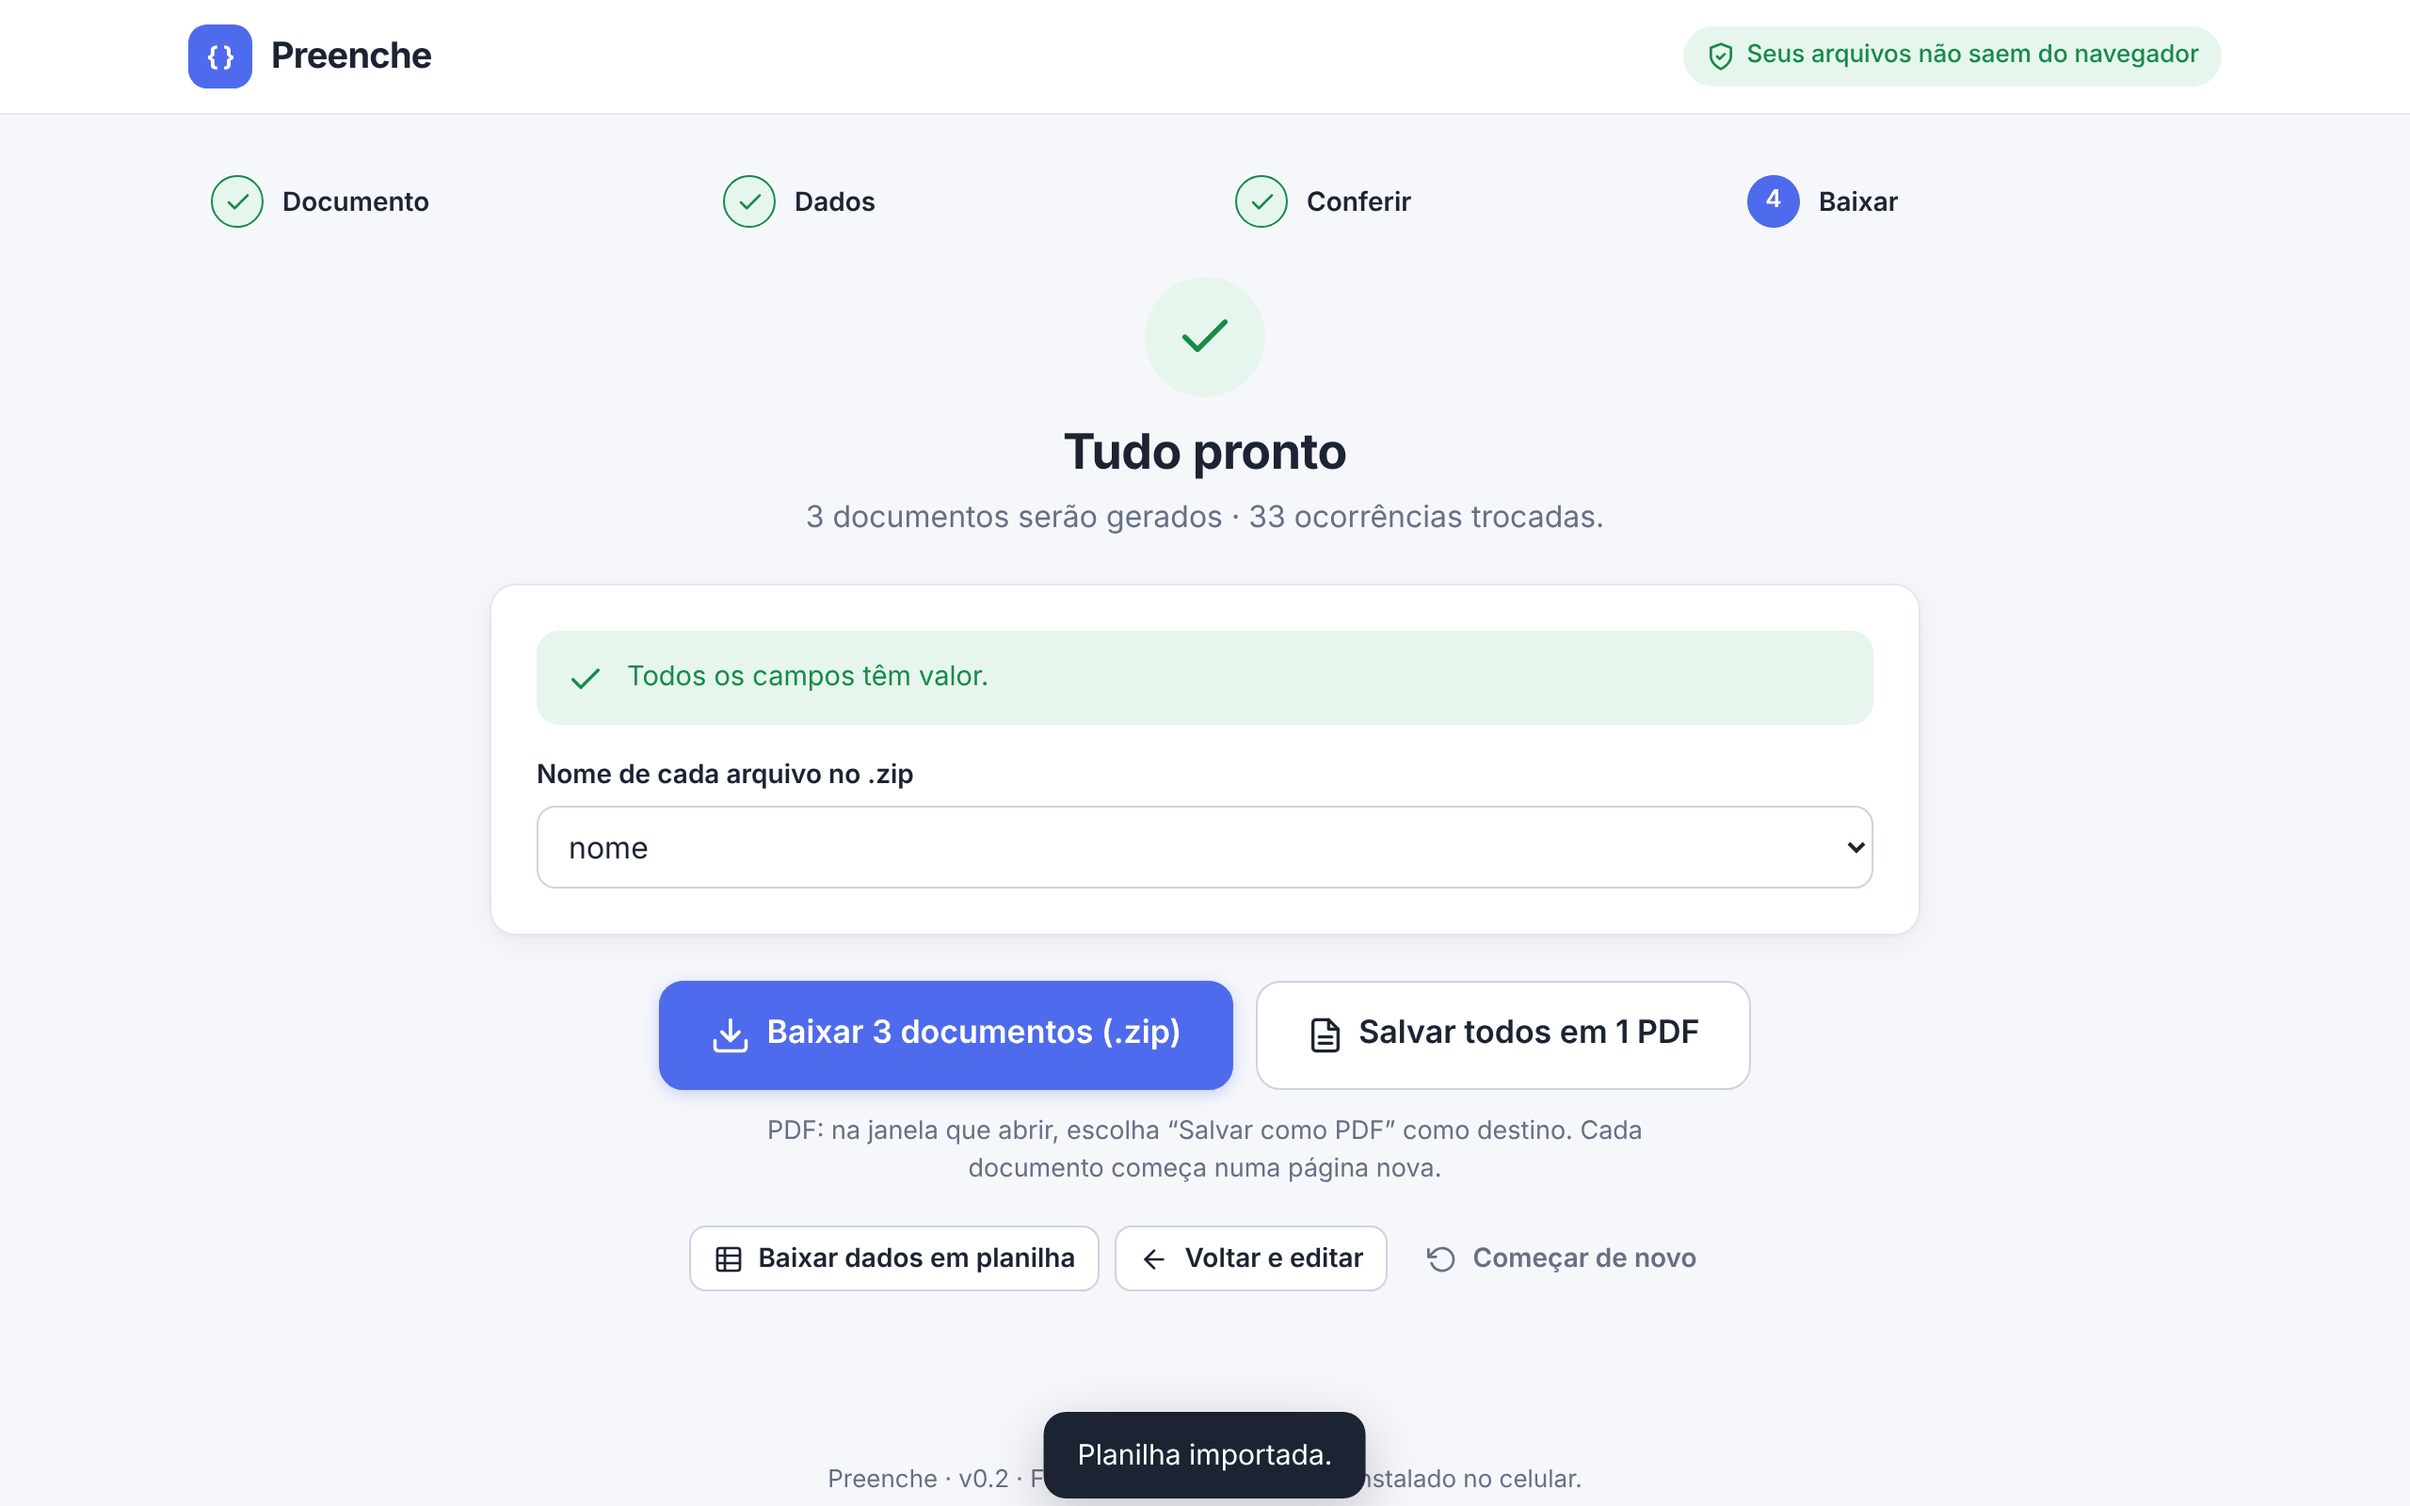
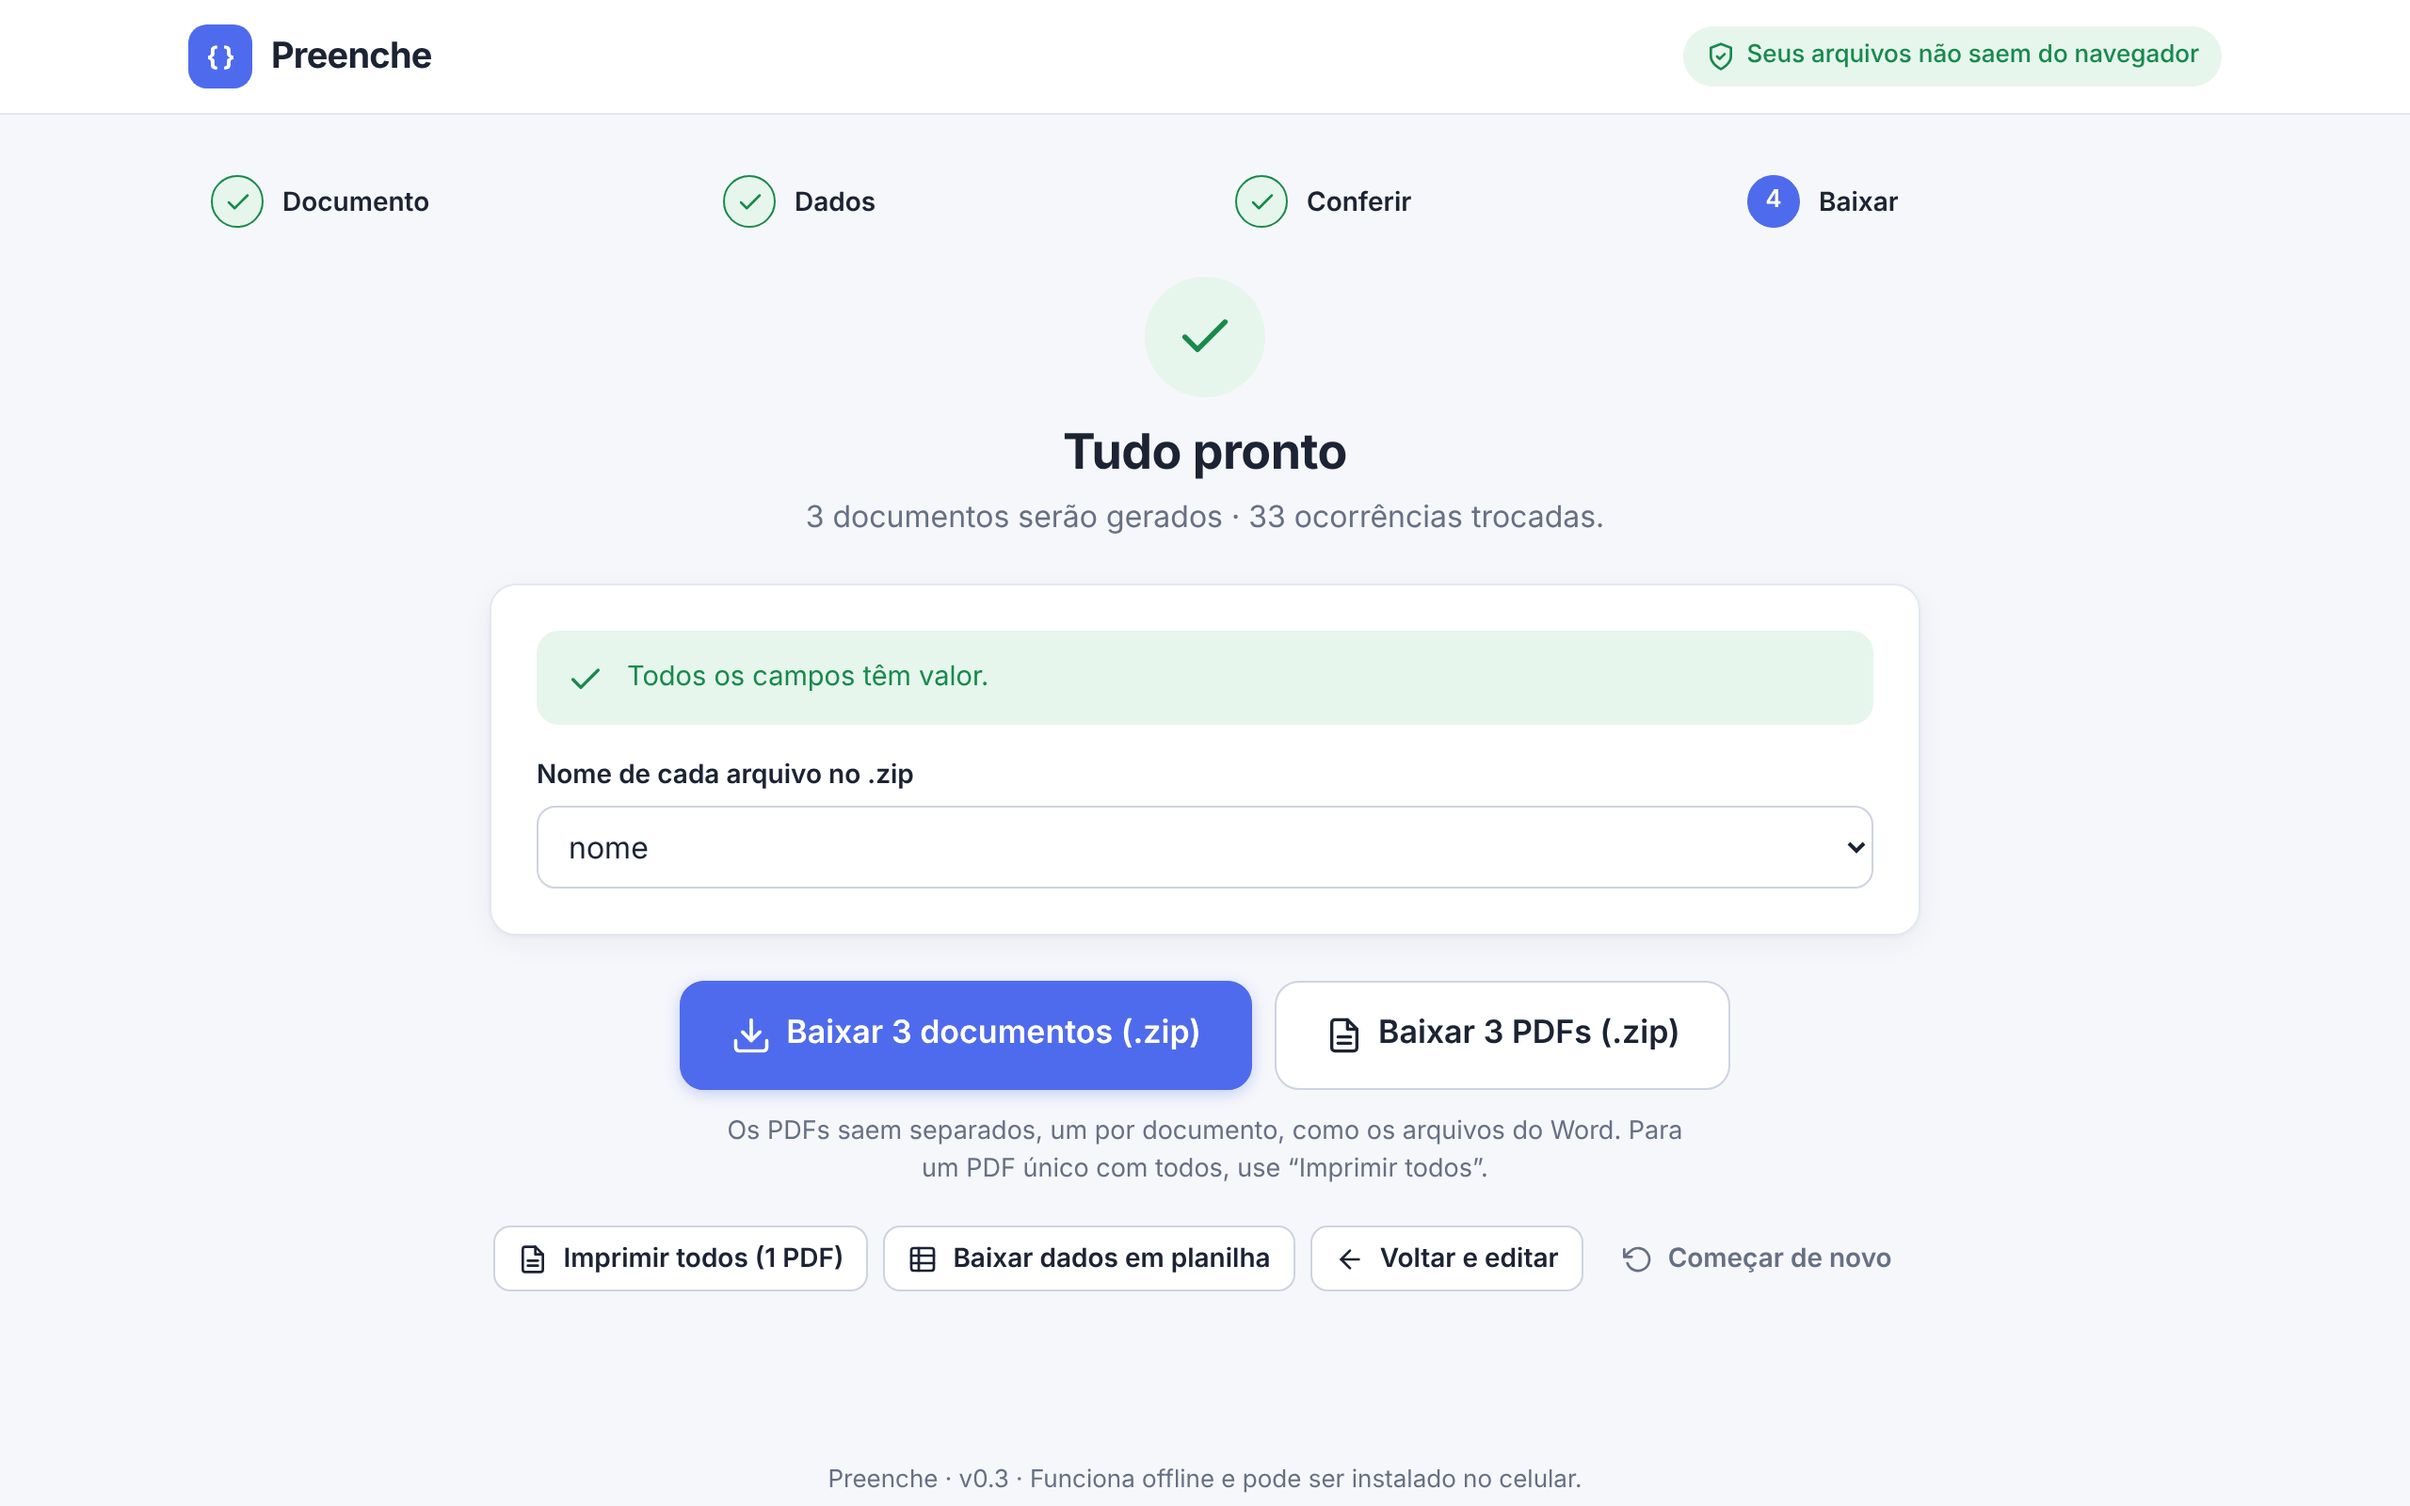
docs: roadmap v0.3, README e prints atualizados
Claude-Session: https://claude.ai/code/session_016NX9FBjog8LXpXJKwTe1G8

diff --git a/docs/gerar_prints.py b/docs/gerar_prints.py
@@ -53,6 +53,7 @@ def to_review(page, rows):
 
 
 def shot(page, name, full=False, clip_h=None):
+    page.evaluate("() => { const t = document.getElementById('toast'); if (t) { t.style.transition = 'none'; t.className = 'toast'; } }")
     if clip_h:
         page.screenshot(path=str(OUT / name), clip={'x': 0, 'y': 0, 'width': page.viewport_size['width'], 'height': clip_h})
     else:
@@ -62,7 +63,7 @@ def shot(page, name, full=False, clip_h=None):
 
 def pdf_page_png(page, rows, out_png):
     page.evaluate('() => { window.print = () => { window.__printed = (window.__printed || 0) + 1; }; window.__printed = 0; }')
-    page.click('#btn-pdf')
+    page.click('#btn-print')
     page.wait_for_function('window.__printed > 0', timeout=20000)
     page.emulate_media(media='print')
     pdf = page.pdf(prefer_css_page_size=True, print_background=True)

diff --git a/ROADMAP.md b/ROADMAP.md
@@ -2,7 +2,7 @@
 
 > Documento vivo: atualizamos a cada etapa do desenvolvimento.
 > **Legenda:** ✅ feito · 🚧 em andamento · 📝 planejado · ❓ decisão em aberto
-> **Última atualização:** 03/11/2026 — v0.2 (PDF + app instalável/offline)
+> **Última atualização:** 03/11/2026 — v0.3 (PDFs separados + datas da planilha)
 
 ---
 
@@ -150,7 +150,23 @@ Comparativo das formas possíveis:
 - "Compartilhar" depende do celular aceitar o tipo de arquivo; quando não aceita, o app avisa e o "Baixar" continua disponível.
 - No iPhone, o PDF é salvo pela tela de impressão (gesto de "pinça" na prévia ou "Salvar em Arquivos"), conforme a versão do iOS.
 
-### v0.3 — Conforto
+### v0.3 — PDFs separados e planilhas mais robustas ✅
+- [x] **PDFs separados em .zip**, um por documento, como os arquivos do Word (botão "Baixar N PDFs (.zip)")
+- [x] **Baixar PDF direto** (sem janela de impressão), também para um documento só; mais prático no celular
+  - Cada página em alta resolução (~190 dpi) com camada de texto invisível: dá para pesquisar e copiar o texto
+  - Quebra de página sem cortar linhas, tabelas ou imagens; respeita as quebras de página do Word
+  - jsPDF 2.5.1 e html2canvas 1.4.1 (MIT), carregados só na primeira vez que são usados
+- [x] "Imprimir" continua disponível (PDF com texto vetorial; no lote, um PDF único com todos)
+- [x] **Datas da planilha**
+  - Zero da frente apagado pelo Excel: `010126` → `10126` volta a ser **01/01/2026** (e `1012026` → 01/01/2026)
+  - Células no formato Data do Excel lidas sem inverter dia e mês (antes, 01/02 podia virar 2 de janeiro)
+  - Número de série de data do Excel (ex.: `46023`) reconhecido como data
+- [x] **Números da planilha** lidos pelo valor da célula: `1.500,50` com formato do Excel não vira mais "1,500.50"
+- [x] **CSV** lido como texto puro: `010126` e `03/11/2026` chegam exatamente como digitados
+
+**Dica para planilhas:** a planilha-modelo do app já vem com as células em formato Texto, o que evita esses problemas na origem. Se usar outra planilha, formate as colunas como Texto antes de digitar.
+
+### v0.4 — Conforto
 - [ ] Formatação: valor por extenso ("mil e quinhentos reais"), validação de dígito do CPF/CNPJ
 - [ ] Valor vazio intencional ("apagar o campo")
 - [ ] Renomear campo na conferência (altera o marcador no documento)
@@ -158,7 +174,7 @@ Comparativo das formas possíveis:
 - [ ] Atalhos de teclado e melhorias de acessibilidade
 - [ ] Marcar campos diretamente na prévia (selecionar texto → "transformar em campo")
 
-### v0.4 — Documentos legados
+### v0.5 — Documentos legados
 - [ ] Modo "texto destacado": reconhecer trechos em vermelho/amarelo no Word e pedir o nome do campo
 - [ ] Sugestão automática de campos (padrões de CNPJ, CPF, e-mail, telefone no texto)
 - [ ] `.odt` e `.rtf`
@@ -166,7 +182,8 @@ Comparativo das formas possíveis:
 ### v1.0 — Polimento
 - [ ] Salvar "perfis" de dados no navegador (opt-in, com aviso de privacidade)
 - [ ] Idiomas (EN/ES)
-- [ ] PDF com cabeçalho/rodapé repetidos em cada página e PDFs separados por documento (dentro do .zip)
+- [ ] PDF com cabeçalho/rodapé repetidos em cada página
+- [ ] Compartilhar como PDF no celular (hoje compartilha no formato original)
 - [ ] Receber arquivos pelo menu "Compartilhar" do celular (ex.: modelo vindo do WhatsApp direto para o app)
 - [ ] Abrir `.docx` com duplo clique no computador quando o app estiver instalado
 - [ ] Modo escuro opcional
@@ -201,7 +218,7 @@ preenche/
 │   ├── sheet.js        # planilha-modelo e importação
 │   ├── pdf.js          # salvar em PDF (impressão)
 │   └── app.js          # telas e fluxo
-├── vendor/             # JSZip, SheetJS, docx-preview, marked (sem CDN)
+├── vendor/             # JSZip, SheetJS, docx-preview, marked, jsPDF, html2canvas (sem CDN)
 ├── icons/              # ícones do app instalável
 ├── manifest.webmanifest # dados do app instalável (PWA)
 ├── sw.js               # funcionamento offline
@@ -226,3 +243,4 @@ Passo a passo no `README.md`. Resumo: subir a pasta para um repositório → *Se
 | 03/11/2026 | v0.1.1: logo volta ao início com confirmação; formatação automática por campo (8 tipos). 48 verificações automatizadas passando. |
 | 03/11/2026 | v0.2: salvar em PDF (1 documento ou lote num PDF só); PWA instalável e offline; compartilhar no celular. 65 verificações automatizadas passando (incl. PDF gerado e lido de volta, e uso offline via servidor http). |
 | 03/11/2026 | Projeto publicado no GitHub com CI de testes. README em formato de apresentação, com prints do app (desktop, celular, antes e depois) gerados por `docs/gerar_prints.py`. |
+| 03/11/2026 | v0.3: PDFs separados em .zip e PDF direto (sem impressão); datas e números da planilha robustos (zero perdido, células de data, CSV). 85 verificações automatizadas passando. |
